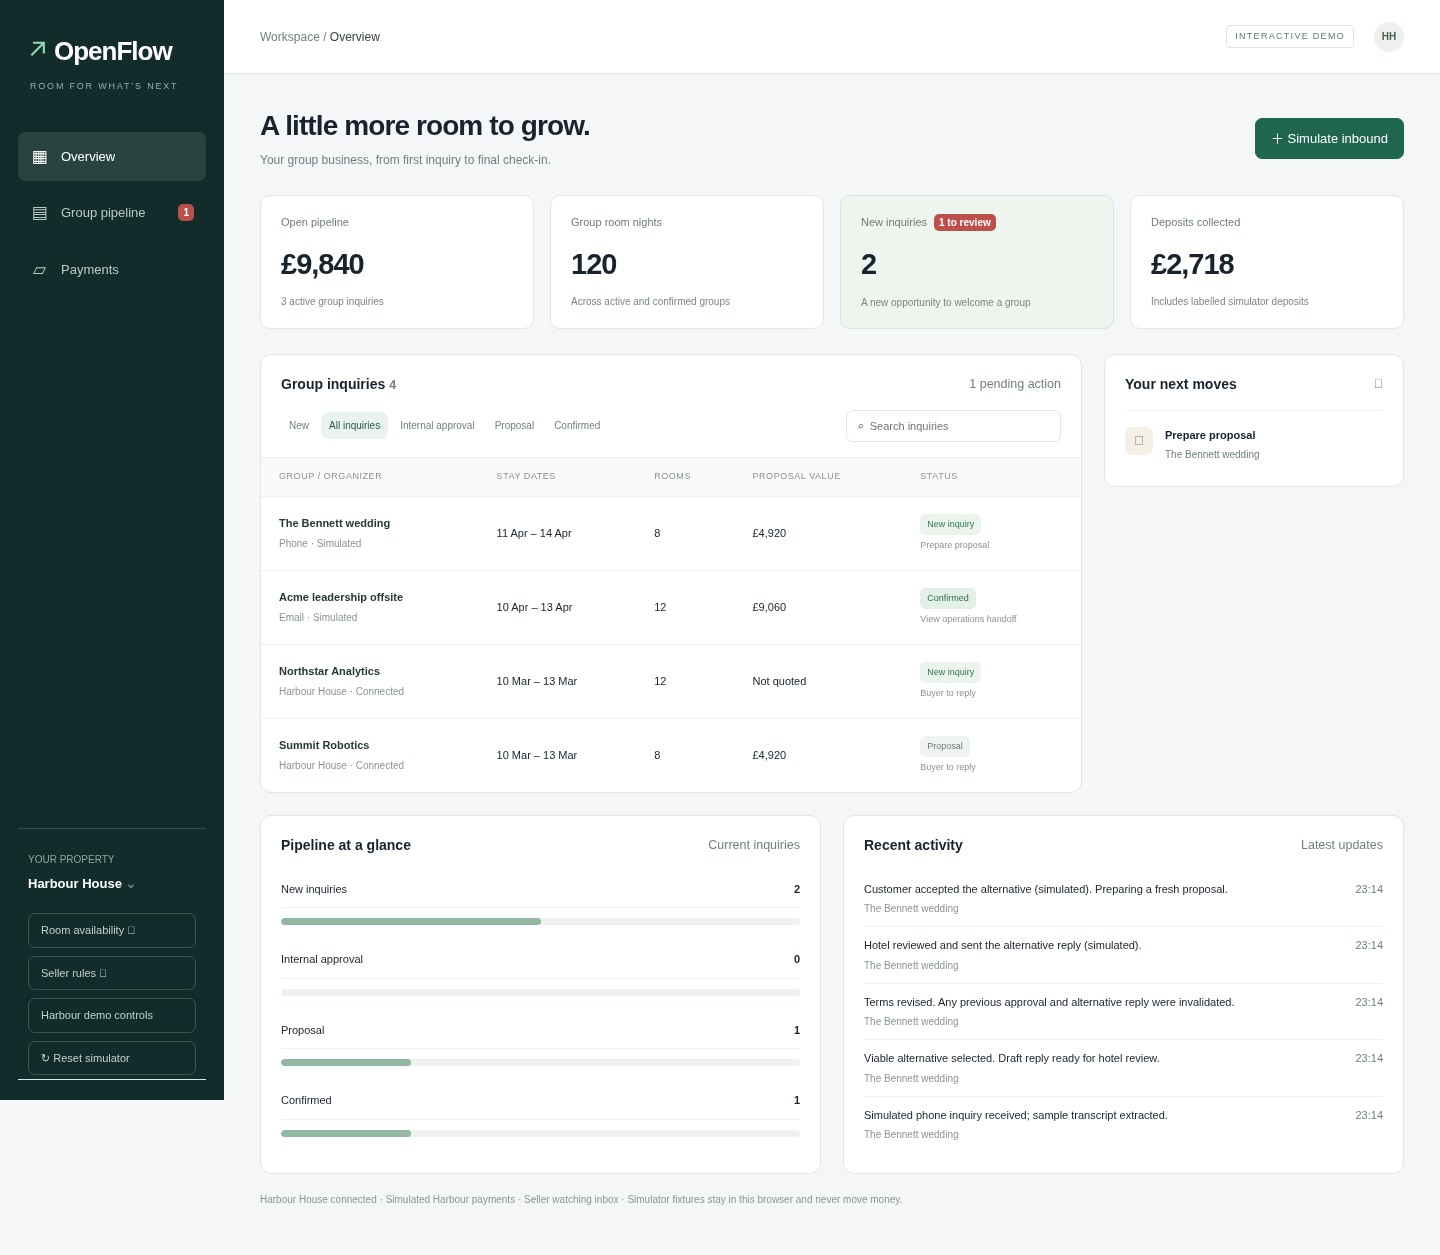
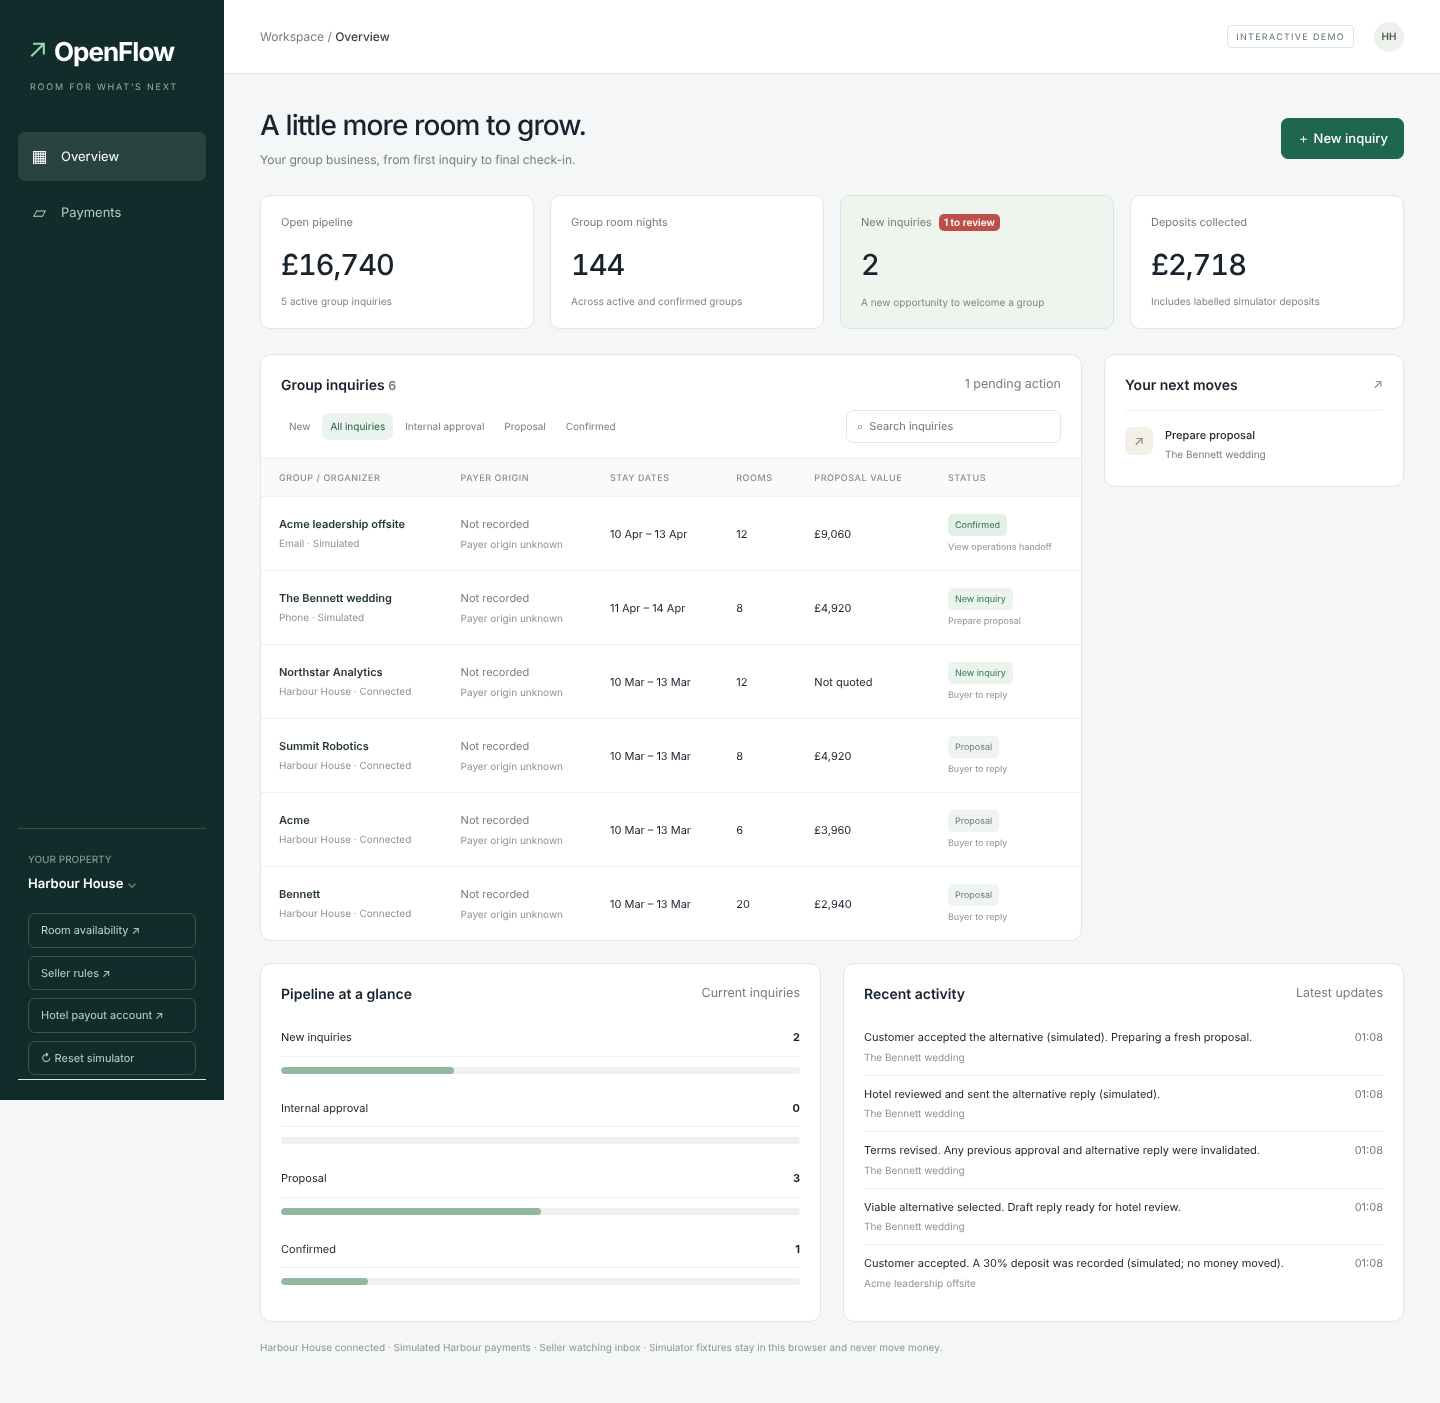
Regenerate the OpenFlow screenshots from the updated browser test
Generated by ui/test/openflow.cjs against a fresh simulated server (rules
seller). simulator.png and mobile-simulator.png now show the current New
inquiry drawer instead of the removed browser-only simulator; overview and
mobile show real inquiries next to two saved simulator fixtures; proposal and
unavailable show the saved fixtures' views. before.png is unchanged. Captions
in docs/OPENFLOW_UX.md say which views are saved simulator inquiries.

Claude-Session: https://claude.ai/code/session_01PcBF2Q7VzLGstxRek1wodt

diff --git a/docs/OPENFLOW_UX.md b/docs/OPENFLOW_UX.md
@@ -104,9 +104,12 @@ omitted.
 | --- | --- |
 | ![Original Harbour dashboard](screenshots/openflow/before.png) | ![OpenFlow overview](screenshots/openflow/overview.png) |
 
-![Inbound simulator](screenshots/openflow/simulator.png)
-![Unavailable dates and alternative calendar](screenshots/openflow/unavailable.png)
-![Editable proposal](screenshots/openflow/proposal.png)
+![New inquiry: the phone sample, asking for more rooms than are free](screenshots/openflow/simulator.png)
+
+Inquiries saved by the earlier browser-only simulator still open in their own views:
+
+![Saved simulator inquiry: unavailable dates and alternative calendar](screenshots/openflow/unavailable.png)
+![Saved simulator inquiry: editable proposal](screenshots/openflow/proposal.png)
 
 Mobile: [overview](screenshots/openflow/mobile.png) ·
-[simulator](screenshots/openflow/mobile-simulator.png).
+[new inquiry](screenshots/openflow/mobile-simulator.png).
